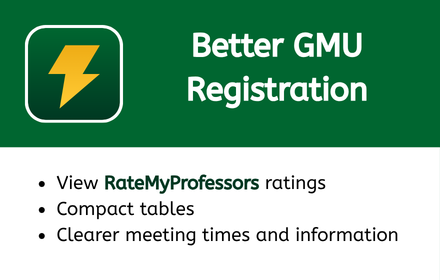
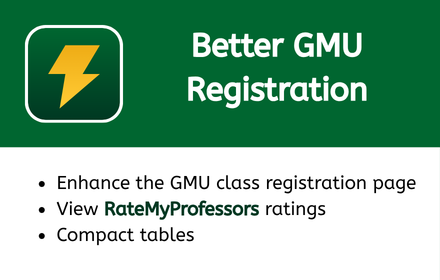
popup ui improved

Changed region(s): [[0.1182, 0.6, 0.9455, 0.8857]]

diff --git a/src/entrypoints/popup/style.css b/src/entrypoints/popup/style.css
@@ -1,9 +1,17 @@
 :root {
-  color: #202723;
+  --green: #006633;
+  --green-dark: #023d25;
+  --green-header: #01602f;
+  --text: #202723;
+  --muted: #626b65;
+  --border: #e5e8e6;
+
+  color: var(--text);
   background: #fff;
   font-family: system-ui, -apple-system, BlinkMacSystemFont, "Segoe UI", sans-serif;
   font-synthesis: none;
   text-rendering: optimizeLegibility;
+  -webkit-font-smoothing: antialiased;
 }
 
 * {
@@ -15,93 +23,163 @@ body {
   margin: 0;
 }
 
+a {
+  color: var(--green);
+  text-decoration: none;
+}
+
+a:hover {
+  text-decoration: underline;
+  text-underline-offset: 3px;
+}
+
+a:focus-visible {
+  border-radius: 2px;
+  outline: 2px solid var(--green);
+  outline-offset: 2px;
+}
+
+/* Header */
+
 .overview {
-  padding: 24px;
+  padding: 22px 24px 20px;
   color: #fff;
-  background: linear-gradient(to bottom, #01602f, #023d25);
+  background: linear-gradient(to bottom, var(--green-header), var(--green-dark));
 }
 
 .brand {
   display: flex;
   align-items: center;
-  gap: 12px;
+  gap: 14px;
 }
 
 .logo {
   display: block;
   flex: none;
+  width: 48px;
+  height: 48px;
+  overflow: hidden;
   border: 2px solid #fff;
   border-radius: 10px;
+  /* Matches the icon's gradient so its rounded corners blend into the frame */
+  background: linear-gradient(to bottom, #006530, #003922);
+}
+
+/* The icon PNGs keep transparent padding (12/128 per side) for the toolbar; crop it here */
+.logo img {
+  display: block;
+  width: 100%;
+  height: 100%;
+  transform: scale(1.2308);
+}
+
+.brand-text {
+  display: flex;
+  flex-direction: column;
+  gap: 4px;
+  min-width: 0;
 }
 
 h1 {
   margin: 0;
   font-size: 18px;
   font-weight: 650;
-  line-height: 1.3;
+  line-height: 1.25;
+  text-wrap: balance;
+}
+
+.version {
+  align-self: flex-start;
+  padding: 1px 7px;
+  color: #e0eee6;
+  font-size: 11px;
+  font-weight: 500;
+  line-height: 1.5;
+  background: rgb(255 255 255 / 0.12);
+  border-radius: 999px;
 }
 
 .description {
-  margin: 18px 0 0;
+  margin: 16px 0 0;
   color: #e0eee6;
   font-size: 13px;
   line-height: 1.6;
+  text-wrap: pretty;
 }
 
+/* Features */
+
 .feature-section {
-  padding: 20px 24px;
+  padding: 18px 24px;
 }
 
 .features {
+  display: grid;
+  gap: 8px;
   margin: 0;
-  padding-left: 18px;
-  color: #626b65;
+  padding: 0;
+  list-style: none;
+  color: var(--muted);
   font-size: 13px;
-  line-height: 1.6;
+  line-height: 1.5;
 }
 
-.features li + li {
-  margin-top: 4px;
+.features li {
+  display: flex;
+  align-items: flex-start;
+  gap: 10px;
+}
+
+.features li::before {
+  content: "";
+  flex: none;
+  width: 6px;
+  height: 6px;
+  margin-top: 7px;
+  background: var(--green);
+  border-radius: 50%;
+}
+
+/* Footer */
+
+.footer {
+  display: grid;
+  gap: 12px;
+  padding: 14px 24px 18px;
+  border-top: 1px solid var(--border);
 }
 
 .links {
+  display: flex;
+  flex-wrap: wrap;
+  gap: 4px 20px;
+  font-size: 13px;
+  font-weight: 500;
+  line-height: 1.5;
+}
+
+.meta {
   display: grid;
-  grid-template-columns: max-content max-content;
-  align-items: start;
-  gap: 2px 20px;
-  padding: 10px 24px 16px;
-  border-top: 1px solid #e5e8e6;
+  gap: 4px;
+  margin: 0;
+  font-size: 12px;
+  line-height: 1.5;
 }
 
-.links a {
-  padding: 4px 0;
-  color: #006633;
-  font-size: 13px;
-  line-height: 1.4;
-  text-decoration: none;
+.meta div {
+  display: flex;
+  gap: 6px;
+  min-width: 0;
+}
+
+.meta dt {
+  color: var(--muted);
+}
+
+.meta dd {
+  min-width: 0;
+  margin: 0;
+  overflow: hidden;
+  text-overflow: ellipsis;
   white-space: nowrap;
-}
-
-.links a:hover {
-  text-decoration: underline;
-  text-underline-offset: 3px;
-}
-
-.links a:focus-visible {
-  border-radius: 2px;
-  outline: 2px solid #006633;
-  outline-offset: 4px;
-}
-
-.made-by {
-  grid-column: 1 / -1;
-  margin-top: 8px;
-  color: #626b65;
-  font-size: 13px;
-  line-height: 1.6;
-}
-
-.contact-link {
-  grid-column: 1 / -1;
-  justify-self: start;
 }

diff --git a/src/entrypoints/popup/App.tsx b/src/entrypoints/popup/App.tsx
@@ -1,60 +1,73 @@
 const REPOSITORY_URL = "https://github.com/cbas23/gmu-better-registration";
+const AUTHOR_URL = "https://github.com/cbas23";
 const CONTACT_EMAIL = "contact@cbas23.me";
 
+const FEATURES = [
+  "RateMyProfessors ratings",
+  "Compact, easier-to-read tables",
+  "Clear meeting times and seat counts",
+];
+
 function App() {
+  const version = browser.runtime.getManifest().version;
+
   return (
     <main class="popup">
-      <section class="overview" aria-labelledby="popup-title">
-        <header class="brand">
-          <img class="logo" src="/icon/48.png" alt="" width="48" height="48" />
-          <h1 id="popup-title">
-            Better GMU
-            <br />
-            Registration
-          </h1>
-        </header>
+      <header class="overview">
+        <div class="brand">
+          <span class="logo">
+            <img src="/icon/128.png" alt="" width="128" height="128" />
+          </span>
+          <div class="brand-text">
+            <h1>Better GMU Registration</h1>
+            <span class="version">v{version}</span>
+          </div>
+        </div>
 
         <p class="description">
           A simpler way to browse classes in Patriot Web.
         </p>
+      </header>
+
+      <section class="feature-section" aria-label="Features">
+        <ul class="features">
+          {FEATURES.map((feature) => (
+            <li>{feature}</li>
+          ))}
+        </ul>
       </section>
 
-      <div class="feature-section">
-        <ul class="features">
-          <li>RateMyProfessors ratings</li>
-          <li>Compact, easier-to-read tables</li>
-          <li>Clear meeting times and seat counts</li>
-        </ul>
-      </div>
-
-      <nav class="links" aria-label="Project links">
-        <a href={REPOSITORY_URL} target="_blank" rel="noopener noreferrer">
-          GitHub repository
-        </a>
-        <a
-          href={`${REPOSITORY_URL}/blob/main/SECURITY.md`}
-          target="_blank"
-          rel="noopener noreferrer"
-        >
-          Privacy policy
-        </a>
-        <span class="made-by">
-          Made by{" "}
+      <footer class="footer">
+        <nav class="links" aria-label="Project links">
+          <a href={REPOSITORY_URL} target="_blank" rel="noopener noreferrer">
+            GitHub repository
+          </a>
           <a
-            href="https://github.com/cbas23"
+            href={`${REPOSITORY_URL}/blob/main/SECURITY.md`}
             target="_blank"
             rel="noopener noreferrer"
           >
-            cbas23
+            Privacy policy
           </a>
-        </span>
-        <span class="made-by">
-          Contact me{" "}
-          <a class="contact-link" href={`mailto:${CONTACT_EMAIL}`}>
-            {CONTACT_EMAIL}
-          </a>
-        </span>
-      </nav>
+        </nav>
+
+        <dl class="meta">
+          <div>
+            <dt>Made by</dt>
+            <dd>
+              <a href={AUTHOR_URL} target="_blank" rel="noopener noreferrer">
+                cbas23
+              </a>
+            </dd>
+          </div>
+          <div>
+            <dt>Contact</dt>
+            <dd>
+              <a href={`mailto:${CONTACT_EMAIL}`}>{CONTACT_EMAIL}</a>
+            </dd>
+          </div>
+        </dl>
+      </footer>
     </main>
   );
 }
